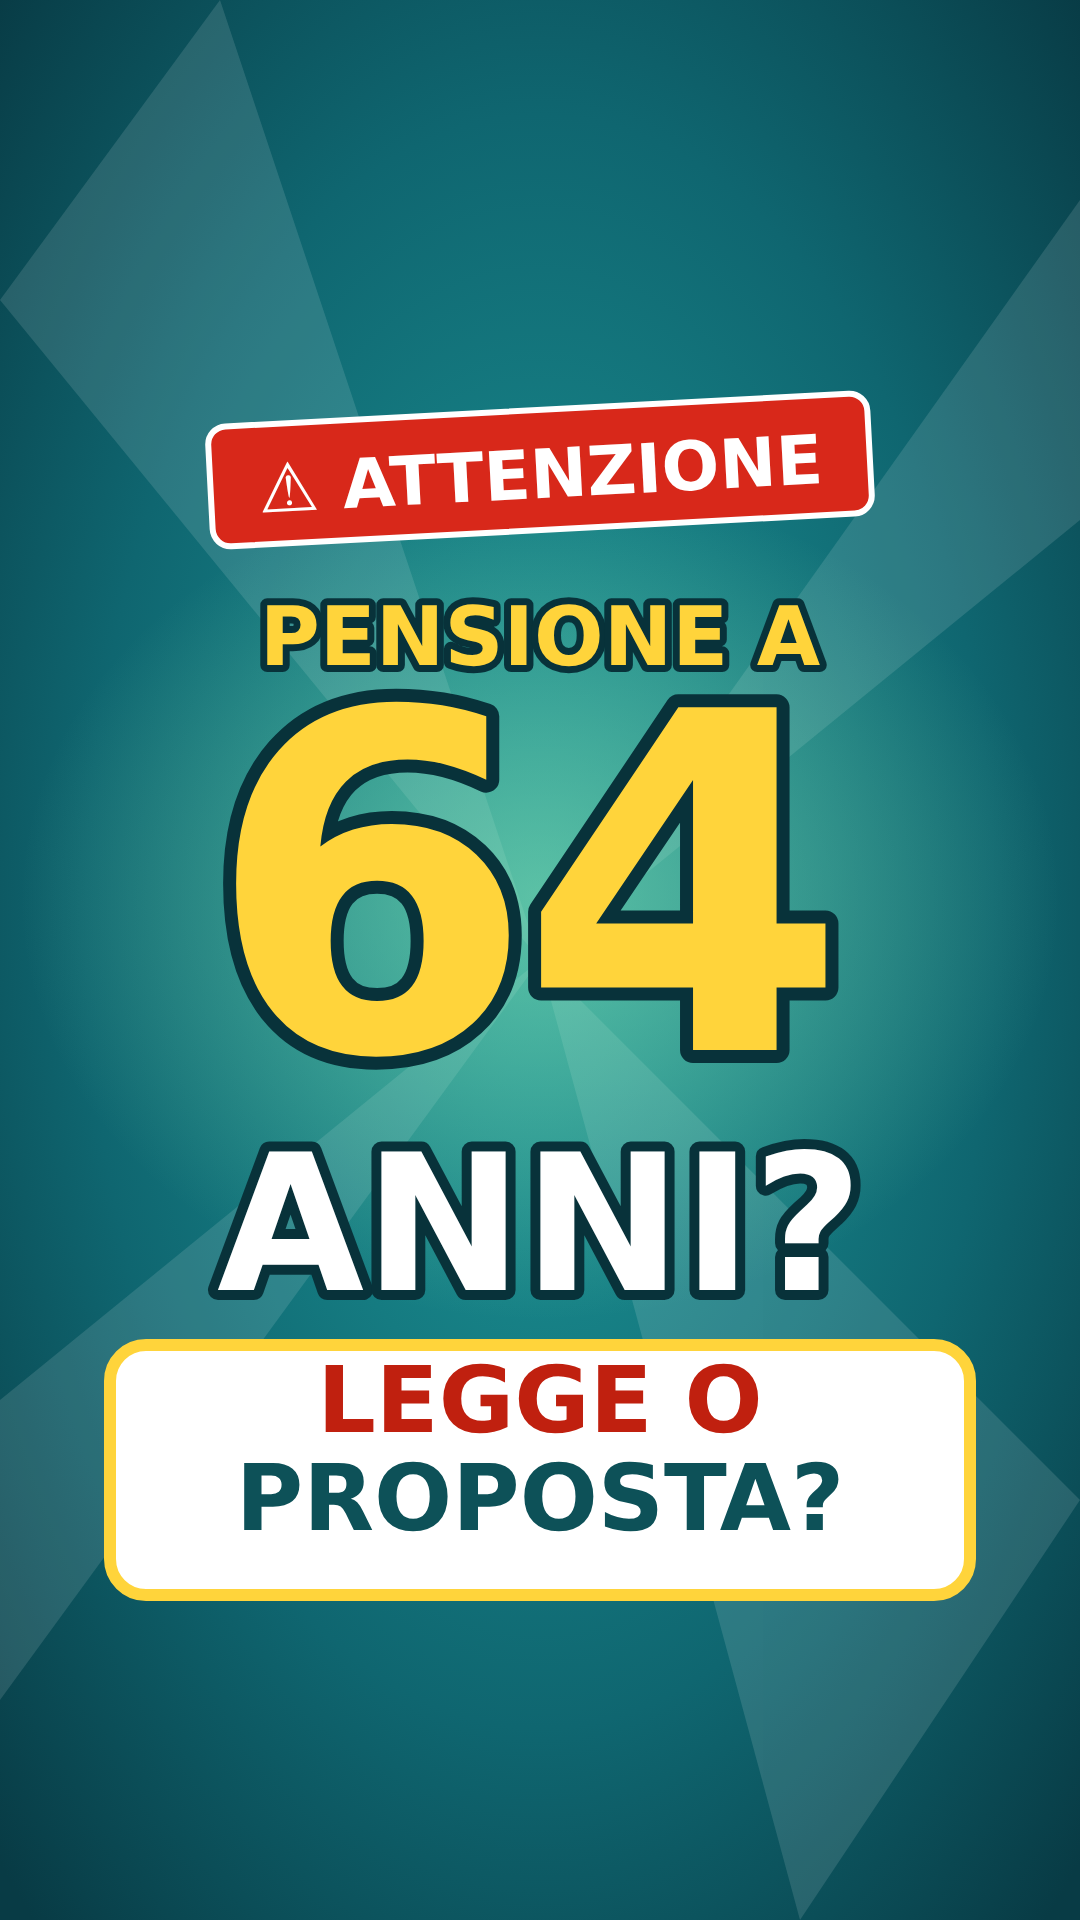
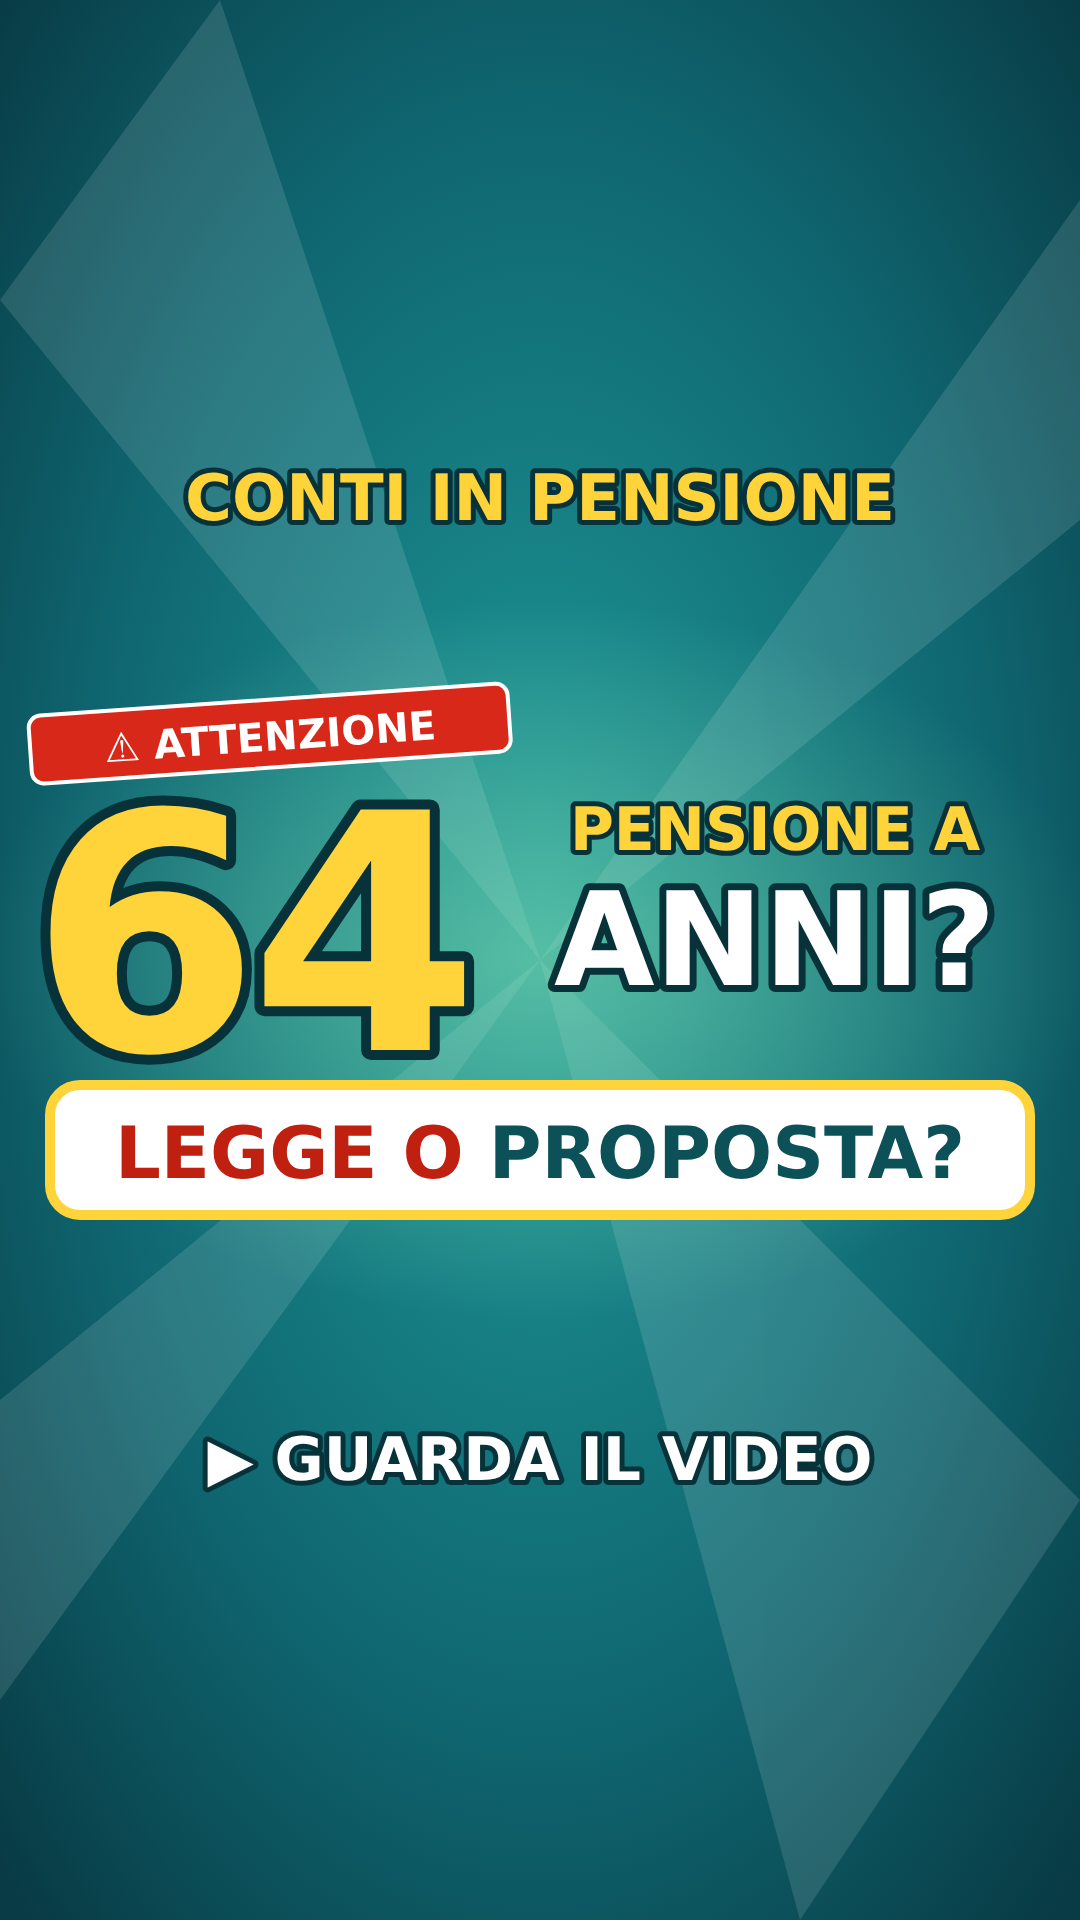
Video 1: copertina Facebook con messaggio nella fascia centrale 16:9
Claude-Session: https://claude.ai/code/session_01XZCsnzGuXo2hcittiBMsHH

diff --git a/conti_in_pensione/06-video-lungo-1-pensione-64-anni/facebook/gen_fb2.py b/conti_in_pensione/06-video-lungo-1-pensione-64-anni/facebook/gen_fb2.py
@@ -1,0 +1,31 @@
+import asyncio
+from playwright.async_api import async_playwright
+S='stroke="#08323A" paint-order="stroke" stroke-linejoin="round"'
+svg=f'''<svg xmlns="http://www.w3.org/2000/svg" width="1080" height="1920" viewBox="0 0 1080 1920" style="font-family:'DejaVu Sans','Liberation Sans',Arial,sans-serif;font-weight:900">
+<defs><radialGradient id="g" cx="50%" cy="48%" r="70%"><stop offset="0" stop-color="#1E9A9A"/><stop offset="0.6" stop-color="#0F6670"/><stop offset="1" stop-color="#083B45"/></radialGradient>
+<radialGradient id="glow" cx="50%" cy="50%" r="50%"><stop offset="0" stop-color="#8FE3B0" stop-opacity=".5"/><stop offset="1" stop-color="#8FE3B0" stop-opacity="0"/></radialGradient></defs>
+<rect width="1080" height="1920" fill="url(#g)"/>
+<g opacity=".12" fill="#fff"><polygon points="540,960 0,300 220,0"/><polygon points="540,960 1080,200 1080,520"/><polygon points="540,960 1080,1500 800,1920"/><polygon points="540,960 0,1400 0,1700"/></g>
+<ellipse cx="540" cy="960" rx="560" ry="360" fill="url(#glow)"/>
+<text x="540" y="520" font-size="64" fill="#FFD43B" text-anchor="middle" {S} stroke-width="10">CONTI IN PENSIONE</text>
+<!-- fascia centrale 16:9: y 656-1264 -->
+<g transform="translate(150 742) rotate(-4)"><rect x="-120" y="-34" width="480" height="68" rx="12" fill="#D8281A" stroke="#fff" stroke-width="4"/><text x="120" y="17" font-size="40" fill="#fff" text-anchor="middle">⚠ ATTENZIONE</text></g>
+<text x="30" y="1050" font-size="330" fill="#FFD43B" letter-spacing="-10" {S} stroke-width="20">64</text>
+<text x="775" y="850" font-size="60" fill="#FFD43B" text-anchor="middle" {S} stroke-width="10">PENSIONE A</text>
+<text x="775" y="985" font-size="130" fill="#fff" text-anchor="middle" {S} stroke-width="14">ANNI?</text>
+<rect x="50" y="1085" width="980" height="130" rx="30" fill="#fff" stroke="#FFD43B" stroke-width="10"/>
+<text x="540" y="1178" font-size="72" fill="#C0200F" text-anchor="middle" id="l1">LEGGE O <tspan fill="#0D5158">PROPOSTA?</tspan></text>
+<text x="540" y="1480" font-size="60" fill="#fff" text-anchor="middle" {S} stroke-width="10">▶ GUARDA IL VIDEO</text>
+</svg>'''
+async def main():
+    async with async_playwright() as p:
+        b=await p.chromium.launch(executable_path='/opt/pw-browsers/chromium-1243/chrome-linux64/chrome'); pg=await b.new_page(viewport={'width':1080,'height':1920})
+        await pg.set_content('<body style="margin:0">'+svg+'</body>')
+        await pg.screenshot(path='copertina-fb-verticale.png')
+        r=await pg.evaluate('''()=>[...document.querySelectorAll('text')].map(t=>{const b=t.getBBox();return [t.textContent.slice(0,22),Math.round(b.x),Math.round(b.y),Math.round(b.x+b.width),Math.round(b.y+b.height)]})''')
+        for x in r: print(x)
+        await b.close()
+asyncio.run(main())
+from PIL import Image
+im=Image.open('copertina-fb-verticale.png'); print(im.size)
+im.crop((0,656,1080,1264)).save('/tmp/crop169.png')
